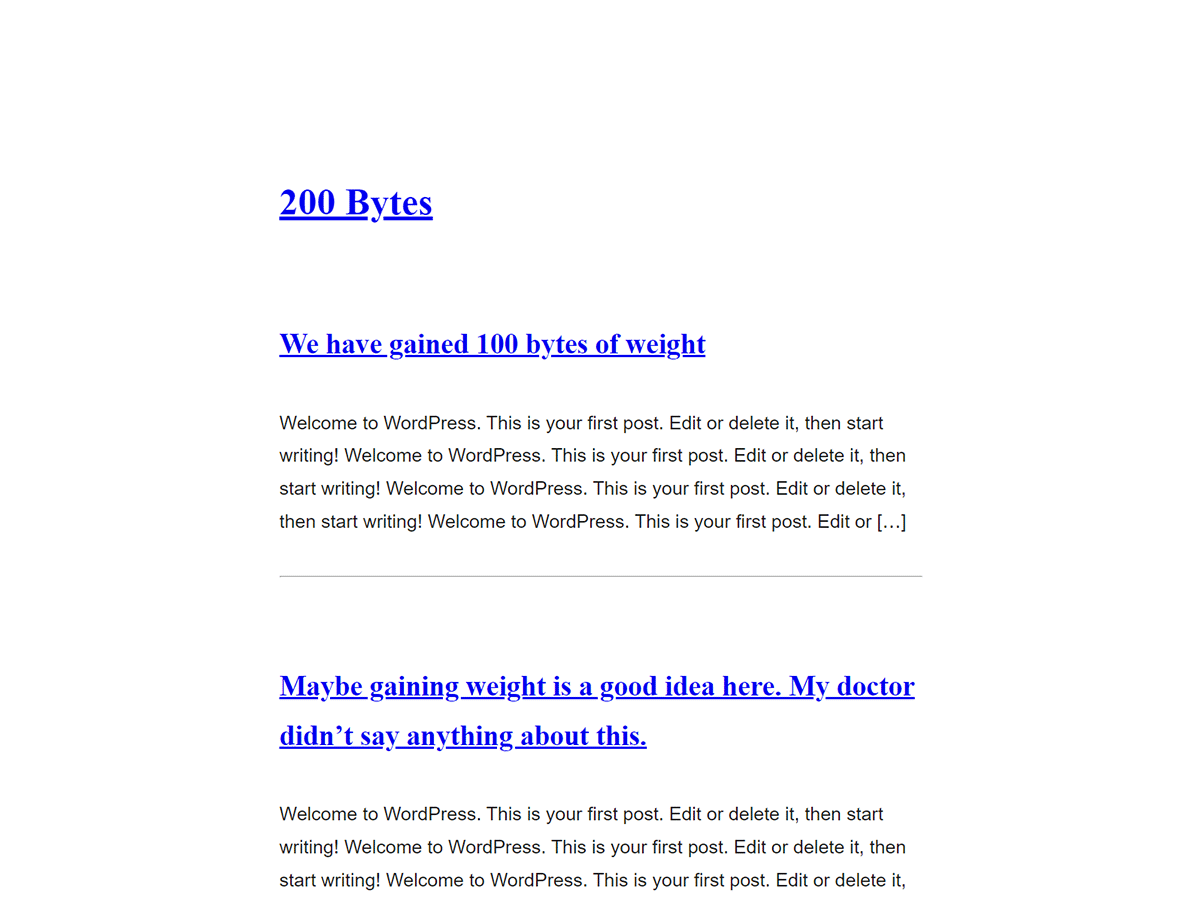
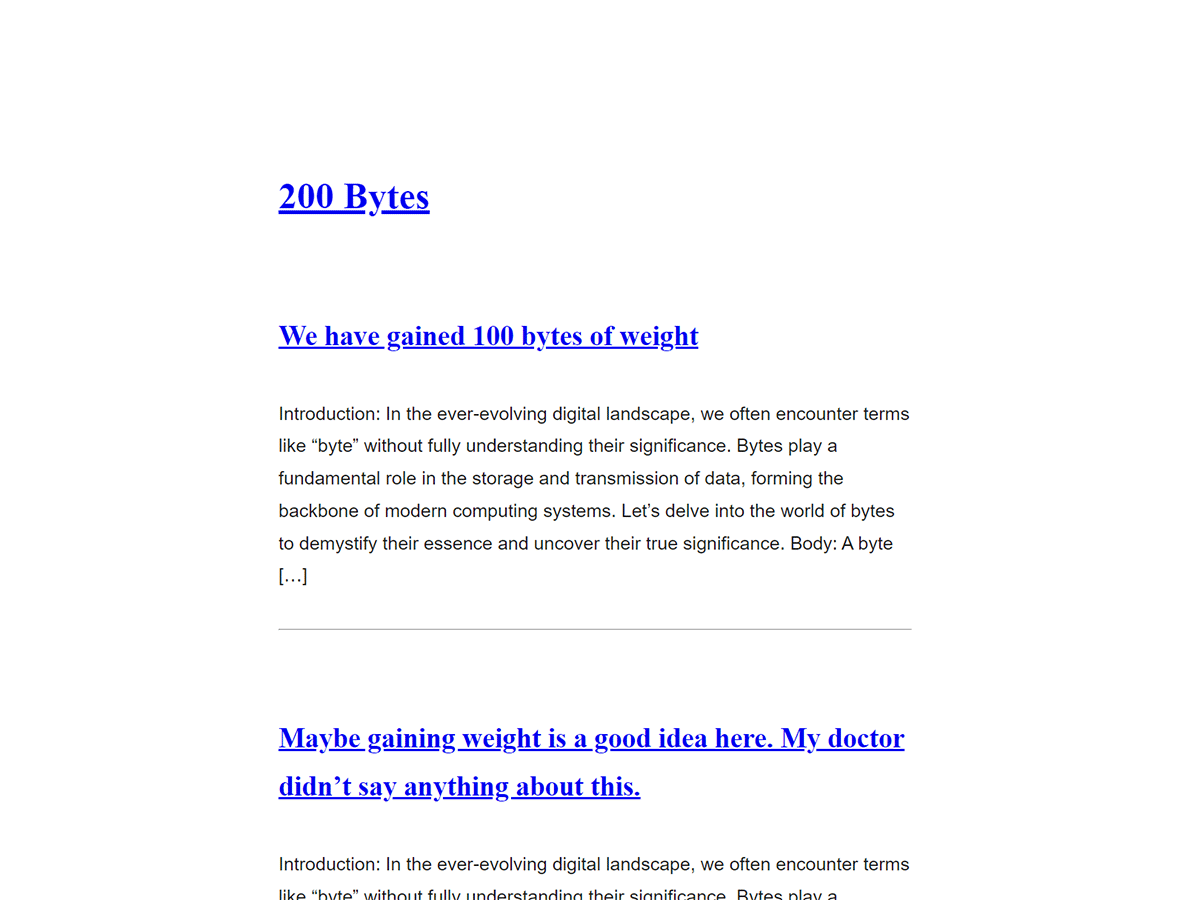
Add files via upload

diff --git a/style.css b/style.css
@@ -6,7 +6,7 @@ Author URI: https://www.marcarmengou.com/
 Description: The sequel to 100 Bytes Theme (https://wordpress.org/themes/100-bytes/). We have gained 100 bytes of weight. Maybe gaining weight is a good idea here. My doctor didn't say anything about this.
 Idea: Inspired by this: https://dev.to/swyx/100-bytes-of-css-to-look-great-everywhere-19pd
 Tags: blog, one-column, full-width-template
-Version: 1.0.3
+Version: 1.0.5
 License: GNU General Public License v2 or later
 License URI: http://www.gnu.org/licenses/gpl-2.0.html
 Text Domain: 200-bytes

diff --git a/index.php b/index.php
@@ -10,12 +10,12 @@ if (have_posts()) :
 <?php
    endwhile;
    echo '<p>';
-   previous_posts_link('Newer posts');
+   previous_posts_link(__('Newer posts', '200-bytes'));
    echo ' | ';
-   next_posts_link('Older posts');
+   next_posts_link(__('Older posts', '200-bytes'));
    echo '</p>';
 else :
-   echo '<p>No content to display</p>';
+   echo '<p>' . __('No content to display', '200-bytes') . '</p>';
 endif;
 get_footer();
 ?>
